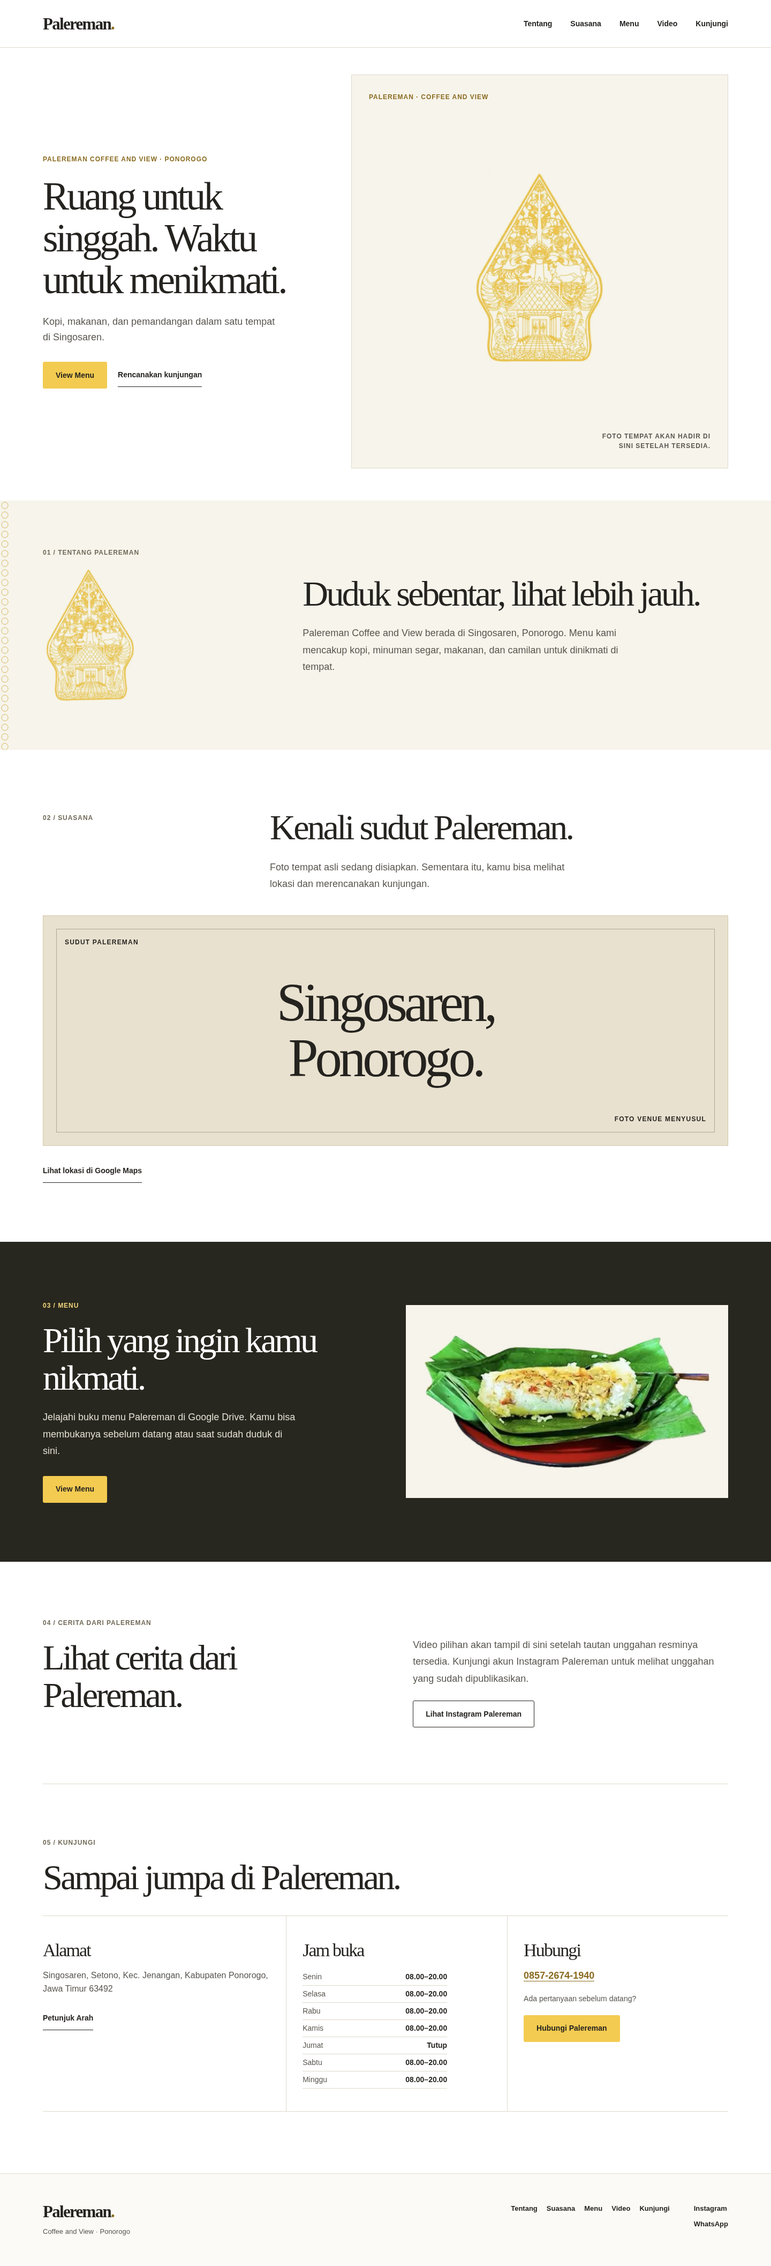
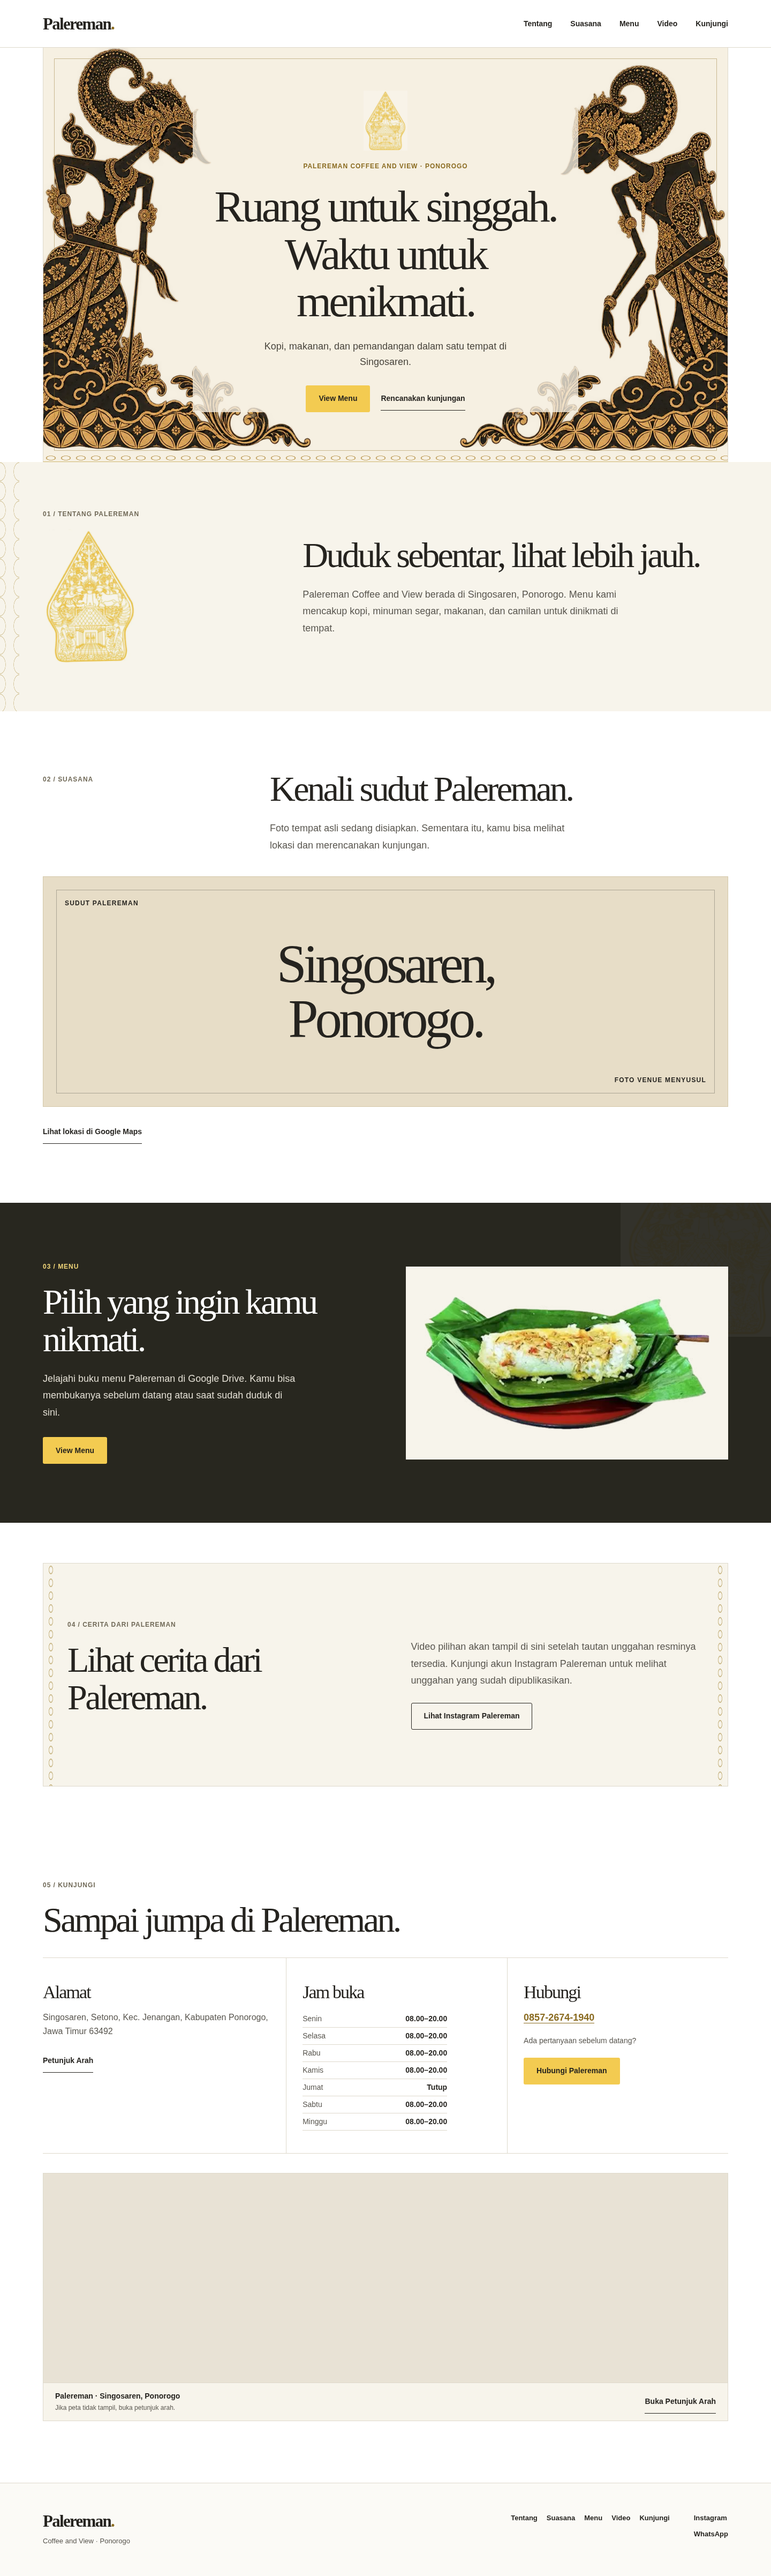
Add Javanese stage design, map, and social video slots

diff --git a/src/app/globals.css b/src/app/globals.css
@@ -19,3 +19,28 @@ section[id]{scroll-margin-top:88px}h1,h2,h3,p{margin-top:0}h1,h2,h3{font-family:
 @media(max-width:900px){.hero{grid-template-columns:1fr;padding-block:35px 55px}.hero-copy{padding:35px 0 45px}.hero-visual,.hero-visual-inner{min-height:430px}.intro-grid{grid-template-columns:1fr;gap:30px}.section-heading{grid-template-columns:1fr}.section-heading .section-number{grid-row:auto;margin-bottom:20px}.menu-grid{grid-template-columns:1fr;gap:38px}.social{grid-template-columns:1fr;gap:0}.social-copy{padding-top:0}.visit-info{grid-template-columns:1fr}.visit-info>div,.visit-info>div+div{border-left:0;border-bottom:1px solid var(--line);padding:24px 0}.visit-info>div:last-child{border-bottom:0}.footer-inner{grid-template-columns:1fr auto}.footer-contact{grid-column:1/-1}}
 @media(max-width:640px){html{scroll-padding-top:68px}section[id]{scroll-margin-top:68px}.shell{width:min(100% - 36px,1280px)}.header-inner{height:68px}.wordmark{font-size:27px}.desktop-nav{display:none}.mobile-nav{display:block;position:relative}.mobile-nav summary{min-height:44px;display:flex;align-items:center;gap:12px;cursor:pointer;font-size:13px;font-weight:700;list-style:none}.mobile-nav summary::-webkit-details-marker{display:none}.mobile-nav[open] nav{position:absolute;right:0;top:46px;width:200px;padding:8px;background:var(--paper);border:1px solid var(--line);box-shadow:0 12px 22px rgba(0,0,0,.1);display:flex;flex-direction:column}.mobile-nav nav a{display:flex;align-items:center;min-height:44px;padding-inline:12px}.hero{padding-block:20px 48px}.hero-copy{padding-block:32px 36px}.hero h1{font-size:clamp(46px,12vw,68px)}.lead{font-size:16px}.hero-visual,.hero-visual-inner{min-height:370px}.hero-visual-inner{padding:26px}.hero-emblem{height:235px}.actions{align-items:flex-start;gap:17px}.intro-band{padding:65px 0}.intro-grid h2,.section-heading h2,.menu-feature h2,.social h2,.visit h2{font-size:42px}.intro-grid p,.section-heading p,.menu-copy p,.social-copy p{font-size:16px}.intro-brand img{height:190px}.atmosphere,.social,.visit{padding-block:70px}.venue-placeholder{min-height:350px;padding:30px}.venue-placeholder strong{font-size:clamp(43px,10vw,70px)}.menu-feature{padding-block:75px}.menu-art{min-height:275px;padding:20px}.footer-inner{grid-template-columns:1fr;gap:25px}.footer-contact{grid-column:auto}.not-found{padding-block:80px}}
 @media(prefers-reduced-motion:reduce){html{scroll-behavior:auto}*,*:before,*:after{animation-duration:.01ms!important;animation-iteration-count:1!important;transition-duration:.01ms!important}.button:hover{transform:none}}
+/* The new stage illustration sits at the edges, leaving the hero copy readable. */
+.hero{position:relative;display:flex;align-items:center;justify-content:center;min-height:720px;padding:80px 30px 92px;background:#f6f0e2 url('/images/wayang-stage.webp') center/100% 100% no-repeat;isolation:isolate;border-inline:1px solid var(--line);border-bottom:1px solid #cfb771}
+.hero:before{content:"";position:absolute;inset:20px;border:1px solid rgba(138,107,32,.42);pointer-events:none}
+.hero:after{content:"";position:absolute;bottom:0;left:0;right:0;height:13px;background:radial-gradient(ellipse at center,transparent 35%,#ae8430 38%,#ae8430 46%,transparent 49%) 0 0/28px 13px;opacity:.65;pointer-events:none}
+.hero-copy{position:relative;z-index:1;align-items:center;text-align:center;padding:0 10px;max-width:720px;margin:auto;background:rgba(246,240,226,.78)}
+.hero-gunungan{display:block;width:auto;height:112px;object-fit:contain;margin-bottom:20px;mix-blend-mode:multiply}
+.hero h1{max-width:700px;font-size:clamp(54px,5.8vw,90px);margin-bottom:25px}
+.hero .lead{max-width:530px;margin-bottom:28px;color:#48443c}
+.hero .actions{justify-content:center}
+.intro-band:before{width:36px;background:radial-gradient(ellipse 11px 18px at 0 50%,transparent 89%,#b39a52 94%,transparent 100%) 0 0/36px 36px,radial-gradient(ellipse 11px 18px at 100% 50%,transparent 89%,#b39a52 94%,transparent 100%) 0 0/36px 36px;opacity:.65}
+.atmosphere .venue-placeholder{background:#e7ddc7}
+.menu-feature{position:relative;overflow:hidden}
+.menu-feature:before{content:"";position:absolute;right:-90px;top:-180px;width:430px;height:430px;background:url('/images/gunungan-palereman.png') center/contain no-repeat;opacity:.055;pointer-events:none}
+.menu-grid{position:relative}
+.social{position:relative;background:var(--cream);padding-inline:45px;border:1px solid var(--line);margin-block:75px}
+.social:before,.social:after{content:"";position:absolute;top:0;bottom:0;width:12px;background:radial-gradient(ellipse at center,transparent 33%,#b49a58 37%,#b49a58 45%,transparent 50%) 0 0/12px 24px;opacity:.65}
+.social:before{left:8px}.social:after{right:8px}
+.map-panel{margin-top:36px;border:1px solid var(--line);background:var(--cream)}
+.map-panel iframe{display:block;width:100%;height:390px;border:0;background:#e8e2d5}
+.map-caption{display:flex;align-items:center;justify-content:space-between;gap:20px;padding:13px 22px;border-top:1px solid var(--line);font-size:14px;font-weight:700}
+@media(max-width:900px){.hero{min-height:680px;padding:75px 28px}.hero-copy{max-width:610px}.hero h1{font-size:clamp(48px,7vw,72px)}.social{padding-inline:38px}}
+@media(max-width:640px){.hero{min-height:680px;padding:72px 25px;background-size:100% 100%}.hero:before{inset:12px}.hero-copy{padding:12px 8px;background:rgba(246,240,226,.86)}.hero-gunungan{height:85px;margin-bottom:16px}.hero h1{font-size:clamp(43px,10.8vw,58px)}.hero .lead{font-size:16px}.intro-band:before{width:17px;background-size:17px 26px}.social{padding:64px 30px;margin-block:45px}.map-panel iframe{height:310px}.map-caption{align-items:flex-start;flex-direction:column;gap:4px;padding:14px}}
+.social:has(.social-video-list){display:block}.social:has(.social-video-list)>div:first-child{margin-bottom:35px}.social-video-list{display:grid;grid-template-columns:repeat(3,minmax(0,1fr));gap:20px}.social-video{min-width:0}.social-cover,.social-player{position:relative;width:100%;aspect-ratio:9/16;border:1px solid var(--line);background:#ded4bc;overflow:hidden}.social-cover{display:block;padding:0;color:#fff}.social-cover img{object-fit:cover}.social-cover:after{content:"";position:absolute;inset:50% auto auto 50%;width:70px;height:70px;border-radius:50%;background:rgba(37,35,31,.8);transform:translate(-50%,-50%)}.social-cover span{position:absolute;z-index:1;left:50%;top:50%;transform:translate(-50%,-50%);font-size:14px;font-weight:700;white-space:nowrap}.social-player iframe{width:100%;height:100%;border:0}.social-status{display:block;font-size:13px;padding:7px 0}.social-video-meta{display:flex;flex-direction:column;gap:5px;padding-top:12px;font-size:14px}.social-video-meta a{color:#8a6b20;text-decoration:underline;text-underline-offset:4px;min-height:44px;display:inline-flex;align-items:center}.social-video-meta span{color:var(--muted)}
+@media(max-width:900px){.social-video-list{grid-template-columns:repeat(2,minmax(0,1fr))}}@media(max-width:640px){.social-video-list{grid-template-columns:1fr}.social-video{max-width:340px;margin-inline:auto;width:100%}}
+.map-caption small{font-size:12px;font-weight:400;color:var(--muted)}

diff --git a/src/app/page.tsx b/src/app/page.tsx
@@ -1,6 +1,7 @@
 import Image from "next/image";
 import { profile } from "@/lib/profile";
 import { MotionEnhancements } from "@/components/motion-enhancements";
+import { SocialVideos } from "@/components/social-videos";
 
 const newTab = { target: "_blank", rel: "noopener noreferrer" } as const;
 
@@ -10,19 +11,13 @@ export default function Home() {
       <MotionEnhancements />
       <section id="beranda" className="hero shell" aria-labelledby="hero-title">
         <div className="hero-copy">
+          <Image className="hero-gunungan" src="/images/gunungan-palereman.png" alt="Gunungan Palereman" width={657} height={905} priority />
           <p className="eyebrow">Palereman Coffee and View · Ponorogo</p>
           <h1 id="hero-title">Ruang untuk singgah. Waktu untuk menikmati.</h1>
           <p className="lead">Kopi, makanan, dan pemandangan dalam satu tempat di Singosaren.</p>
           <div className="actions">
             <a className="button button-gold" href={profile.menuDriveUrl} {...newTab}>View Menu <span className="sr-only">(buka Google Drive di tab baru)</span></a>
             <a className="text-link" href="#kunjungi">Rencanakan kunjungan</a>
-          </div>
-        </div>
-        <div className="hero-visual" role="img" aria-label="Bidang identitas Palereman. Foto venue asli belum tersedia.">
-          <div className="hero-visual-inner">
-            <span className="visual-index">Palereman · Coffee and View</span>
-            <Image className="hero-emblem" src="/images/gunungan-palereman.png" alt="" width={657} height={905} priority />
-            <span className="visual-caption">Foto tempat akan hadir di sini setelah tersedia.</span>
           </div>
         </div>
       </section>
@@ -49,7 +44,7 @@ export default function Home() {
 
       <section id="video" className="social shell" aria-labelledby="video-title">
         <div><span className="section-number">04 / Cerita dari Palereman</span><h2 id="video-title">Lihat cerita dari Palereman.</h2></div>
-        <div className="social-copy"><p>Video pilihan akan tampil di sini setelah tautan unggahan resminya tersedia. Kunjungi akun Instagram Palereman untuk melihat unggahan yang sudah dipublikasikan.</p><a className="button button-outline-dark" href={profile.instagramUrl} {...newTab}>Lihat Instagram Palereman <span className="sr-only">(buka tab baru)</span></a></div>
+        <SocialVideos />
       </section>
 
       <section id="kunjungi" className="visit" aria-labelledby="visit-title">
@@ -58,6 +53,10 @@ export default function Home() {
             <div><h3>Alamat</h3><p>{profile.address}</p><a className="text-link" href={profile.mapsUrl} {...newTab}>Petunjuk Arah <span className="sr-only">(buka tab baru)</span></a></div>
             <div><h3>Jam buka</h3><dl className="hours-list">{profile.hours.map(({ day, time }) => <div key={day}><dt>{day}</dt><dd>{time}</dd></div>)}</dl></div>
             <div><h3>Hubungi</h3><a className="phone-link" href={profile.phoneHref}>{profile.phoneDisplay}</a><p className="contact-note">Ada pertanyaan sebelum datang?</p><a className="button button-gold" href={profile.whatsappUrl} {...newTab}>Hubungi Palereman <span className="sr-only">via WhatsApp (buka tab baru)</span></a></div>
+          </div>
+          <div className="map-panel">
+            <iframe title="Peta lokasi Palereman Coffee and View di Ponorogo" src="https://www.google.com/maps?q=Palereman%20Coffee%20and%20View%20Ponorogo&output=embed" loading="lazy" referrerPolicy="no-referrer-when-downgrade" />
+            <div className="map-caption"><span>Palereman · Singosaren, Ponorogo<br /><small>Jika peta tidak tampil, buka petunjuk arah.</small></span><a className="text-link" href={profile.mapsUrl} {...newTab}>Buka Petunjuk Arah <span className="sr-only">(buka tab baru)</span></a></div>
           </div>
         </div>
       </section>

diff --git a/src/components/social-videos.tsx b/src/components/social-videos.tsx
@@ -1,0 +1,25 @@
+"use client";
+
+import Image from "next/image";
+import { useState } from "react";
+import { embedUrl, socialVideos } from "@/lib/social-videos";
+import { profile } from "@/lib/profile";
+
+export function SocialVideos() {
+  const [active, setActive] = useState<string | null>(null);
+  const [loaded, setLoaded] = useState(false);
+
+  if (socialVideos.length === 0) {
+    return <div className="social-copy"><p>Video pilihan akan tampil di sini setelah tautan unggahan resminya tersedia. Kunjungi akun Instagram Palereman untuk melihat unggahan yang sudah dipublikasikan.</p><a className="button button-outline-dark" href={profile.instagramUrl} target="_blank" rel="noopener noreferrer">Lihat Instagram Palereman <span className="sr-only">(buka tab baru)</span></a></div>;
+  }
+
+  return <div className="social-video-list">{socialVideos.map((video) => {
+    const src = embedUrl(video);
+    if (!src) return null;
+    const playing = active === video.id;
+    return <article className="social-video" key={video.id}>
+      {playing ? <div className="social-player"><iframe title={video.title} src={src} loading="lazy" allow="encrypted-media; picture-in-picture" allowFullScreen onLoad={() => setLoaded(true)} /><span role="status" className="social-status">{loaded ? "Pemutar siap" : "Memuat pemutar video…"}</span></div> : <button type="button" className="social-cover" onClick={() => { setActive(video.id); setLoaded(false); }}><Image src={video.cover} alt="" fill sizes="(max-width: 640px) 85vw, 300px" /><span>Putar video</span></button>}
+      <div className="social-video-meta"><strong>{video.title}</strong><span>{video.platform}</span><a href={video.url} target="_blank" rel="noopener noreferrer">Tonton di {video.platform}<span className="sr-only"> (buka tab baru)</span></a></div>
+    </article>;
+  })}</div>;
+}

diff --git a/src/lib/social-videos.ts b/src/lib/social-videos.ts
@@ -1,0 +1,19 @@
+export type SocialVideo = {
+  id: string;
+  platform: "Instagram" | "TikTok";
+  title: string;
+  url: string;
+  cover: string;
+};
+
+// Add only owner-approved post URLs and locally licensed cover images.
+export const socialVideos: SocialVideo[] = [];
+
+export function embedUrl(video: SocialVideo) {
+  if (video.platform === "Instagram") {
+    const match = video.url.match(/^https:\/\/(?:www\.)?instagram\.com\/(reel|p)\/([A-Za-z0-9_-]+)\/?/);
+    return match ? `https://www.instagram.com/${match[1]}/${match[2]}/embed` : null;
+  }
+  const match = video.url.match(/^https:\/\/(?:www\.)?tiktok\.com\/@[^/]+\/video\/(\d+)\/?/);
+  return match ? `https://www.tiktok.com/embed/v2/${match[1]}` : null;
+}

diff --git a/README.md b/README.md
@@ -2,11 +2,11 @@
 
 Next.js 16 single page site based on the [revised PRD](docs/PRD-Palereman.md). The home page contains Tentang, Suasana, Menu, Video, and Kunjungi sections. Menu buttons open the [public Google Drive menu](https://drive.google.com/file/d/1L7ihFNGiLOhXX5wK7XbqEQ8DGiBHlEjS/view) in a new tab. The URL is configured once in `src/lib/profile.ts`. Old `/menu`, `/suasana`, and `/kunjungi` routes redirect to their respective home page sections.
 
-The gunungan artwork and one food photo were extracted from the supplied Palereman menu. Venue photos and selected official video URLs have not been supplied as files/links, so those sections display clearly labeled placeholders instead of invented media. Design research access limitations are recorded in [design-references.md](docs/design-references.md).
+The gunungan artwork and one food photo were extracted from the supplied Palereman menu. A newly generated ornamental wayang illustration decorates the hero; it is not an official Palereman character or historical depiction. Venue photos and selected official video URLs have not been supplied as files/links, so those sections display clearly labeled placeholders instead of invented media. The video component is ready for owner-approved Instagram Reel or TikTok post URLs in `src/lib/social-videos.ts`. An account profile URL alone cannot provide a reliable automatic video feed; that would require authorized platform APIs. The visit section includes an embedded Google Maps search and the user-supplied directions link as a fallback. Design research access limitations are recorded in [design-references.md](docs/design-references.md).
 
 The address and Maps link came from the user's screenshot and link. The user confirmed the listed hours and phone/WhatsApp number. The Drive URL came from the user; direct anonymous access could not be checked from this environment because its outbound proxy denied the request.
 
-Current full-page previews: [desktop](docs/screenshots/palereman-desktop.png) and [mobile](docs/screenshots/palereman-mobile.png). They show the venue and video placeholders awaiting original media.
+Current full-page previews: [desktop](docs/screenshots/palereman-desktop.png) and [mobile](docs/screenshots/palereman-mobile.png). They show the venue and video placeholders awaiting original media. The map iframe could not load in this cloud environment's restricted browser; visitors can use the directions link below it.
 
 ## Develop
 

diff --git a/docs/design-direction-v2.md b/docs/design-direction-v2.md
@@ -1,0 +1,14 @@
+# Arah visual: panggung Palereman
+
+Brief terbaru dari pengguna: halaman tetap satu, lebih terasa sebagai situs tradisional Jawa, dengan ornamen abstrak Jawa dan figur wayang sebagai latar. Video dan peta tampil di halaman utama.
+
+Design Read: landing page kafe Ponorogo dengan bahasa visual panggung wayang dan halaman buku menu. ENERGY 2 / RHYTHM 3 / MOTION 2. Gerak ditempatkan pada gunungan dan pembukaan, sementara ornamen statis agar isi mudah dibaca.
+
+- **Panggung hero:** ilustrasi wayang baru membingkai sisi kiri/kanan. Bagian tengah sengaja kosong untuk identitas dan tindakan utama. Ilustrasi ini dekorasi baru, bukan tokoh atau aset resmi Palereman.
+- **Warna:** putih hangat, arang, dan emas tetap mengikuti logo/menu. Emas menerangi aksi, bukan menjadi warna seluruh teks.
+- **Batik:** pola geometris hanya pada pita dan tepi section. Motif tidak ditempatkan di belakang paragraf dan jam buka.
+- **Foto dan menu:** logo serta foto makanan asli yang tersedia tetap dipakai. Foto venue tetap menunggu file asli; bidangnya berlabel jelas.
+- **Video:** komponen disiapkan untuk unggahan resmi yang dipilih. Tautan profil saja tidak memberi akses ke daftar video resmi; API Instagram/TikTok memerlukan otorisasi akun. Tanpa URL unggahan atau izin API, situs tidak mengarang video.
+- **Peta:** iframe Google Maps berdasarkan nama tempat ditampilkan di #kunjungi, dengan link Google Maps yang diberikan pemilik sebagai fallback. Hasil lokasi perlu dilihat ulang dari jaringan pengunjung.
+
+Riset Dribbble/Pinterest pada PRD revisi masih terhalang HTTP 403 di lingkungan ini; lihat `design-references.md`. Arah ini bersumber dari permintaan pengguna dan aset Palereman, bukan klaim telah melihat referensi platform tersebut.
